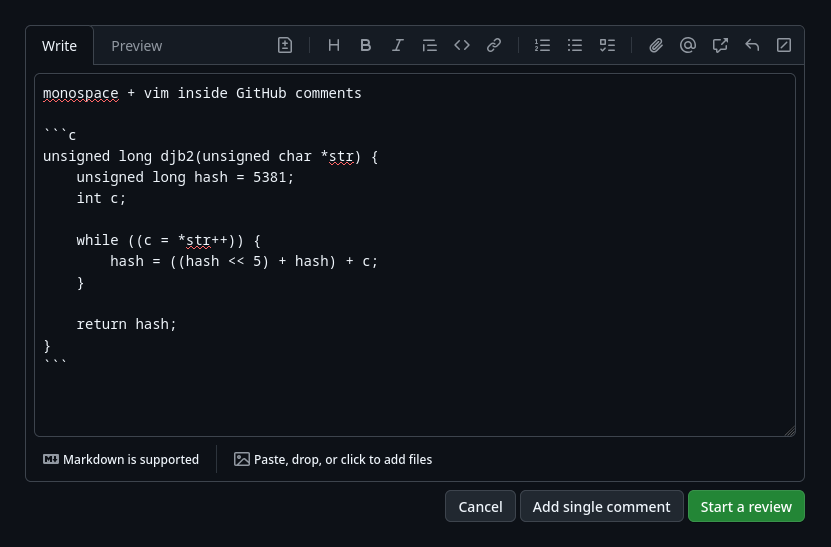
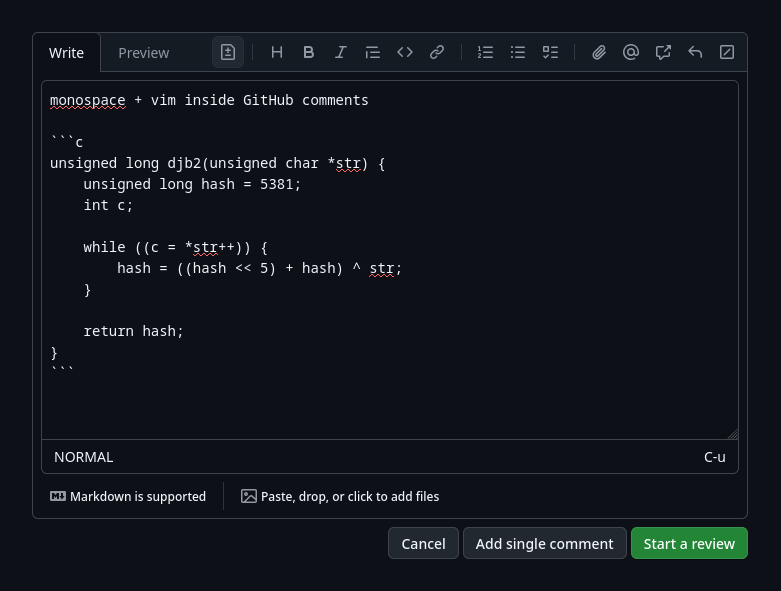
added status bar

diff --git a/src/content/index.ts b/src/content/index.ts
@@ -4,9 +4,17 @@ const SELECTOR = "textarea[name$='comment[body]']" as "textarea";
 
 const style = document.createElement("style");
 
-style.textContent = `${SELECTOR} {
+style.textContent = `\
+${SELECTOR} {
     font-family: monospace !important;
     min-height: 256px !important;
+}
+
+.vimthub-status {
+    padding: 6px 12px;
+    display: flex;
+    justify-content: space-between;
+    border-top: var(--borderWidth-thin) solid var(--borderColor-default, var(--color-border-default));
 }`;
 
 document.head.appendChild(style);
@@ -27,8 +35,30 @@ function update() {
         }
 
         if (!_skip) {
-            console.log("found new textarea", textarea);
-            new Vim(textarea);
+            console.log("Starting vim on", textarea);
+
+            const _mode = document.createElement("span");
+            _mode.textContent = "NORMAL";
+
+            const _cmdseq = document.createElement("span");
+            _cmdseq.textContent = "";
+
+            if (textarea.parentElement) {
+                const _status = document.createElement("div");
+                _status.className = "vimthub-status";
+                _status.appendChild(_mode);
+                _status.appendChild(_cmdseq);
+                textarea.parentElement.appendChild(_status);
+            }
+
+            new Vim(textarea, {
+                onModeChange: (mode) => {
+                    _mode.textContent = mode;
+                },
+                onCmdSeq: (seq) => {
+                    _cmdseq.textContent = seq;
+                }
+            });
         }
     }
 

diff --git a/src/content/vim.ts b/src/content/vim.ts
@@ -249,7 +249,13 @@ export class Vim {
     allowClipboardReset: boolean = false;
     selectionStart: number | null = null;
     historyBeforeInsert: History | null = null;
-    constructor(public textarea: HTMLTextAreaElement) {
+    constructor(
+        public textarea: HTMLTextAreaElement,
+        public options: {
+            onModeChange?: (mode: "NORMAL" | "INSERT" | "VISUAL") => void;
+            onCmdSeq?: (cmdseq: string) => void;
+        } = {}
+    ) {
         textarea.addEventListener("keydown", (event) => {
             if (!RESERVED_KEYS.includes(event.key)) {
                 const key = event.ctrlKey
@@ -299,7 +305,9 @@ function onKey(vim: Vim, key: Key | string): boolean {
         return false;
     }
 
-    console.log(vim.cmdseq + key);
+    if (vim.options.onCmdSeq) {
+        vim.options.onCmdSeq(vim.cmdseq + key);
+    }
 
     if (vim.data.readNextChar) {
         vim.data.nextChar = key;
@@ -409,6 +417,14 @@ function setMode(vim: Vim, mode: Mode): void {
     }
 
     vim.mode = mode;
+
+    if (vim.options.onModeChange) {
+        vim.options.onModeChange(
+            vim.mode === Mode.COMMAND ? "NORMAL" :
+                vim.mode === Mode.INSERT ? "INSERT" :
+                    "VISUAL"
+        );
+    }
 }
 
 function resetCommand(vim: Vim): void {

diff --git a/manifest.js b/manifest.js
@@ -10,7 +10,7 @@ import {
 } from "./scripts/build.config";
 
 export const NAME = "Vimthub";
-export const VERSION = "0.1.1";
+export const VERSION = "0.1.2";
 
 /**
  * @param {"chrome" | "firefox"} browser
